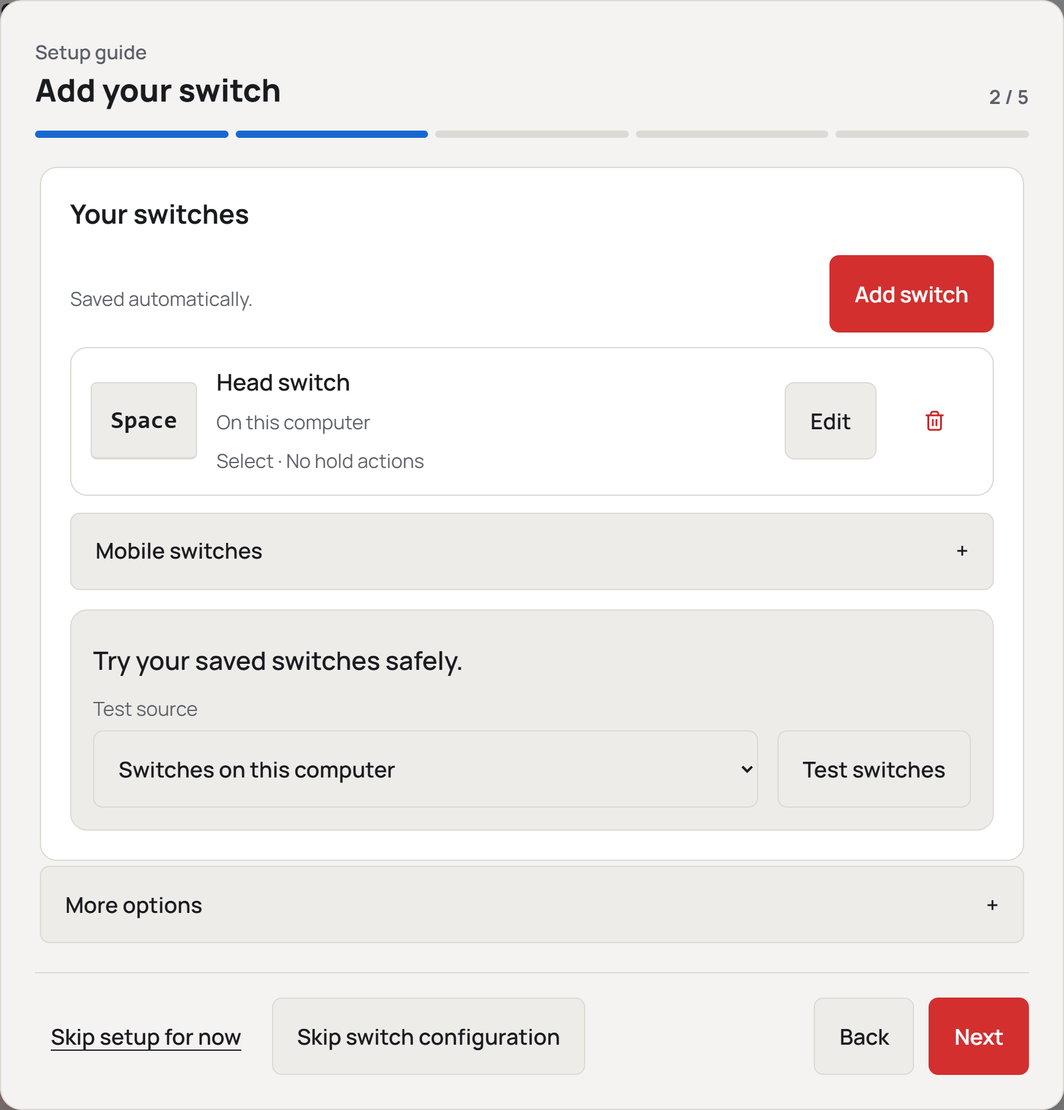
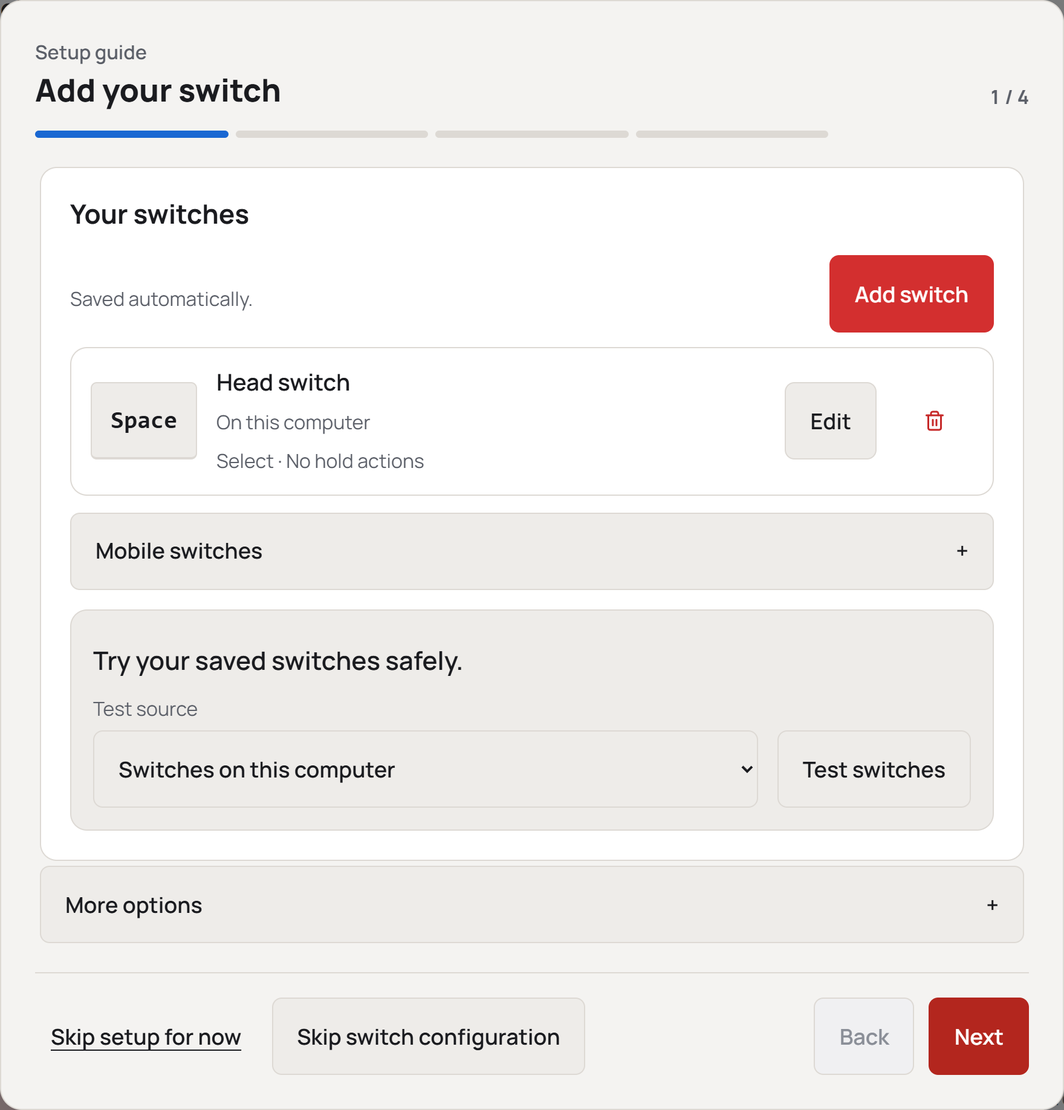
Show input access only when a Mac needs setup (#1345)
* Show input access setup only when a Mac needs permission

* Start Windows guide screenshots on the switch step

* Keep switch drafts mounted when input permission changes

---------

diff --git a/src/App.tsx b/src/App.tsx
@@ -1,5 +1,6 @@
 import { Button, Input, Select, StatusIcon } from "./ui/controls";
 import { PageIcon } from "./ui/PageIcon";
+import { needsInputAccess } from "./inputAccess";
 import { Demonstration, DemonstrationProvider } from "./help/Demonstration";
 import { useEffect, useId, useMemo, useRef, useState } from "react";
 import {
@@ -83,7 +84,7 @@ function HomeView({ state, switches, scanning, navigate, ctx, jump, recent, onDi
     <section className="home-health" aria-labelledby="home-health-heading">
     <h2 id="home-health-heading">Your setup</h2>
     <section className="status-list" aria-label="Switch control status">
-      <article><StatusIcon ok={state.accessibility === "granted"}><Accessibility size={19} /></StatusIcon><div><h3>Input access</h3><AccessibilityCopy state={state} /></div>{state.accessibility === "required" && <Button className="text-button" onClick={onAccessibility}>Open Accessibility Settings</Button>}</article>
+      {needsInputAccess(state) && <article><StatusIcon ok={false}><Accessibility size={19} /></StatusIcon><div><h3>Input access</h3><AccessibilityCopy state={state} /></div><Button className="text-button" onClick={onAccessibility}>Open Accessibility Settings</Button></article>}
       <article><StatusIcon ok={released ? undefined : hasSelect}><PageIcon page="switches" size={19} /></StatusIcon><div><h3>Saved switches</h3><p>{saved.length} saved. {released ? "Listening paused" : hasSelect ? "Select assigned" : "Select action needed"}</p></div>{saved.length > 0 && <Button className="text-button" onClick={() => onReleaseSwitchKeys(!released)}>{released ? "Resume listening" : "Pause listening"}</Button>}</article>
       <article><StatusIcon><PageIcon page="scanning" size={19} /></StatusIcon><div><h3>Scanning</h3><p>{selectOpensHome(scanning.config) ? "Select opens Home" : `Select starts ${lastModeName(scanning.config)}`}. {areaOptions(scanning.config, scanning.config.controlMode).automatic ? "Automatic" : "Manual"}</p></div><Button className="text-button" onClick={() => navigate("scanning")}>Change scanning</Button></article>
       <article><StatusIcon ok={mobileConnected || undefined}><PageIcon page="mobile" size={19} /></StatusIcon><div><h3>Mobile connection (optional)</h3><p>{mobileConnected ? state.connectedDeviceName ?? bluetoothLabels.connected : bluetoothLabels[state.bluetooth]}</p></div>{mobileConnected ? <Button className="secondary" onClick={onDisconnect}>Disconnect</Button> : <Button className="text-button" onClick={() => navigate("mobile")}>Connect mobile</Button>}</article>
@@ -346,14 +347,14 @@ function UpdateBanner({ update, openUpdates }: { update: UpdateState; openUpdate
 function SupportView({ state, switches, busy, perform, openSetup, openUpdates, ctx, jump }: { state: AppState; switches: SwitchController; busy: boolean; perform: (operation: () => Promise<AppState>) => void; openSetup: () => void; openUpdates: () => void; ctx: FindContext; jump: Jump }) {
   return <div className="view"><PageHead title="Help" blurb={<>Set up Switchify PC and fix common problems. The full guide is at <a href="https://pc.theswitchify.app" target="_blank" rel="noreferrer">pc.theswitchify.app</a>.</>} />
     <SectionStrip page="support" ctx={ctx} jump={jump} />
-    <section className="subview" data-section="setup" aria-labelledby="support-setup-heading"><header className="section-header" data-setting="setup-guide"><div><h2 id="support-setup-heading">Setup</h2><p>The three things a working setup needs.</p></div><Button className="primary setup-launch" onClick={openSetup}><Wrench size={16} />Open setup guide</Button></header><div className="task-list" aria-label="Setup status">
-      <article data-setting="input-access"><StatusIcon ok={state.accessibility === "granted"}><Accessibility size={19} /></StatusIcon><div><h3>Input access</h3><AccessibilityCopy state={state} detailed /><Demonstration kind="access" /></div>{state.accessibility === "required" && <Button className="secondary" disabled={busy} onClick={() => perform(() => api.checkAccessibility(true))}>Open Accessibility Settings</Button>}</article>
+    <section className="subview" data-section="setup" aria-labelledby="support-setup-heading"><header className="section-header" data-setting="setup-guide"><div><h2 id="support-setup-heading">Setup</h2><p>Set up your switches and optional mobile connection.</p></div><Button className="primary setup-launch" onClick={openSetup}><Wrench size={16} />Open setup guide</Button></header><div className="task-list" aria-label="Setup status">
+      {needsInputAccess(state) && <article data-setting="input-access"><StatusIcon ok={false}><Accessibility size={19} /></StatusIcon><div><h3>Input access</h3><AccessibilityCopy state={state} detailed /><Demonstration kind="access" /></div><Button className="secondary" disabled={busy} onClick={() => perform(() => api.checkAccessibility(true))}>Open Accessibility Settings</Button></article>}
       <article><StatusIcon><PageIcon page="switches" size={19} /></StatusIcon><div><h3>Local switches</h3><p>{switches.state?.settings.bindings.length ?? 0} configured. Open Switches to assign Select, then open Scanning to adjust movement.</p></div><Button className="secondary" onClick={() => jump({ page: "switches", section: "switches" })}>Open Switches</Button></article>
       <article><StatusIcon><Bluetooth size={19} /></StatusIcon><div><h3>Optional mobile connection</h3><p>{bluetoothLabels[state.bluetooth]}. Open Mobile for pairing and forwarding profiles.</p></div><Button className="secondary" onClick={() => jump({ page: "mobile", section: "pairing" })}>Open Mobile</Button></article>
     </div></section>
     <section className="subview" data-section="fix" aria-labelledby="support-fix-heading"><header className="section-header"><div><h2 id="support-fix-heading">Fix a problem</h2><p>Checks and tools for when something is not working.</p></div></header><div className="task-list" aria-label="Troubleshooting actions">
       <article data-setting="bluetooth"><StatusIcon><Bluetooth size={19} /></StatusIcon><div><h3>Bluetooth connection</h3><p>{bluetoothLabels[state.bluetooth]}</p></div><Button className="secondary" disabled={busy} onClick={() => perform(api.disconnectAll)}><Power size={16} />Disconnect</Button></article>
-      <article><StatusIcon ok={state.accessibility === "granted"}><Accessibility size={19} /></StatusIcon><div><h3>Input access</h3><AccessibilityCopy state={state} detailed /><Demonstration kind="access" /></div>{state.accessibility === "required" ? <Button className="secondary" disabled={busy} onClick={() => perform(() => api.checkAccessibility(true))}>Open Accessibility Settings</Button> : <Button className="secondary" disabled={busy} onClick={() => perform(() => api.checkAccessibility(false))}><RefreshCw size={16} />Check input access</Button>}</article>
+      {needsInputAccess(state) && <article><StatusIcon ok={false}><Accessibility size={19} /></StatusIcon><div><h3>Input access</h3><AccessibilityCopy state={state} detailed /><Demonstration kind="access" /></div><Button className="secondary" disabled={busy} onClick={() => perform(() => api.checkAccessibility(true))}>Open Accessibility Settings</Button></article>}
       <article data-setting="not-recognised"><StatusIcon><PageIcon page="switches" size={19} /></StatusIcon><div><h3>Switch not recognized</h3><p>{interfaceModeAdvice} {reservedKeyAdvice(state.capabilities.platform)}</p><Demonstration kind="interface" /></div><Button className="secondary" onClick={() => jump({ page: "switches", section: "practice", setting: "practice" })}>Test switches</Button></article>
       <article><StatusIcon><RefreshCw size={19} /></StatusIcon><div><h3>Application update</h3><p>Switchify PC {state.version}</p></div><Button className="secondary" onClick={openUpdates}>View updates</Button></article>
       <article data-setting="diagnostics"><StatusIcon><Download size={19} /></StatusIcon><div><h3>Diagnostics</h3><p>Export sanitized health, capability, and recent event data</p></div><Button className="secondary" disabled={busy} onClick={() => perform(api.exportDiagnostics)}><Download size={16} />Export</Button></article>
@@ -375,7 +376,16 @@ function SetupGuide({ state, switches, suspended, busy, error, skip, finish, acc
   switches: SwitchController;
   suspended: boolean;
 }) {
-  const [step, setStep] = useState(0);
+  const inputAccessRequired = needsInputAccess(state);
+  const [requestedStep, setStep] = useState(() => inputAccessRequired ? 0 : 1);
+  const steps = inputAccessRequired ? [0, 1, 2, 3, 4] : [1, 2, 3, 4];
+  // Permission can arrive while this guide is open. Move straight to switch
+  // setup without renumbering the remaining content or losing saved choices.
+  const step = requestedStep === 0 && !inputAccessRequired ? 1 : requestedStep;
+  const stepNumber = steps.indexOf(step) + 1;
+  useEffect(() => {
+    if (!inputAccessRequired && requestedStep === 0) setStep(1);
+  }, [inputAccessRequired, requestedStep]);
   const [startupChoice, setStartupChoice] = useState<boolean | null>(state.setup.completed ? state.settings.startWithSystem : null);
   const [diagnosticsChoice, setDiagnosticsChoice] = useState<boolean | null>(state.setup.completed && state.telemetry.consent !== "undecided" ? state.telemetry.consent === "enabled" : null);
   const dialogRef = useRef<HTMLElement>(null);
@@ -416,12 +426,12 @@ function SetupGuide({ state, switches, suspended, busy, error, skip, finish, acc
   };
 
   return <div className="modal-backdrop setup-backdrop" hidden={suspended} inert={suspended}><section ref={dialogRef} className="setup-dialog" data-switch-step={step === 1} role={capturing ? undefined : "dialog"} aria-modal={capturing ? undefined : true} aria-labelledby="setup-title" tabIndex={-1} onKeyDown={trapFocus}>
-    <header><div><span>Setup guide</span><h2 id="setup-title">{titles[step]}</h2></div><strong aria-label={`Step ${step + 1} of 5`}>{step + 1} / 5</strong></header>
-    <div className="setup-progress" aria-hidden="true">{titles.map((title, index) => <span key={title} data-active={index <= step} />)}</div>
+    <header><div><span>Setup guide</span><h2 id="setup-title">{titles[step]}</h2></div><strong aria-label={`Step ${stepNumber} of ${steps.length}`}>{stepNumber} / {steps.length}</strong></header>
+    <div className="setup-progress" aria-hidden="true">{steps.map(index => <span key={titles[index]} data-active={index <= step} />)}</div>
     {error && <div className="dialog-error" role="alert">{error}</div>}
     <div className="setup-content">
       {step === 0 && <div className="setup-statuses">
-        <article><StatusIcon ok={state.accessibility === "granted"}><Accessibility size={19} /></StatusIcon><div><h3>Input access</h3><AccessibilityCopy state={state} detailed /><Demonstration kind="access" /></div>{state.accessibility === "required" && <Button className="secondary" disabled={busy} onClick={() => void accessibility()}>Open Accessibility Settings</Button>}</article>
+        {needsInputAccess(state) && <article><StatusIcon ok={false}><Accessibility size={19} /></StatusIcon><div><h3>Input access</h3><AccessibilityCopy state={state} detailed /><Demonstration kind="access" /></div><Button className="secondary" disabled={busy} onClick={() => void accessibility()}>Open Accessibility Settings</Button></article>}
       </div>}
       {step === 1 && <SwitchesSection mobileConnected={state.bluetooth === "connected"} platform={state.capabilities.platform} controller={switches} onDraftChange={setSwitchDraft} suspended={suspended} />}
       {step === 2 && <div><h3>Use your switches</h3><p>Press and release Select to open Home. Choose Point to pick a place on the screen and an action, Mouse to move a visible pointer ring with mouse controls, or Keyboard to type. Apps and windows brings another app forward, so you never need to focus an app first. After an action, Select carries on in the same mode.</p><p>Automatic scanning moves the highlight for you. Use Auto scan rate for grid and panel timing, and Line speed for point scanning lines. Holding a switch pauses the scan highlight; release runs the action shown. Choose whether repeating Mouse movement and scrolling stop on switch press or release under Scanning, Mouse pointer.</p><p>Escape disables switch control. Assign Stop scanning or Pause / resume in Switches. Holding any switch for {switches.state ? switches.state.escapeHoldMs / 1000 : 4}s disables switch control.</p><p>Open Scanning after setup to adjust movement and switch between Point and Mouse. Mobile connection is optional.</p><Demonstration kind="grid" /><Demonstration kind="line" /><Demonstration kind="hold" /></div>}
@@ -429,7 +439,7 @@ function SetupGuide({ state, switches, suspended, busy, error, skip, finish, acc
       {step === 4 && <div><h3>Choose whether to share diagnostics</h3><p>Optional anonymous app health and sanitized errors help improve Switchify. Typed text, commands, pairing secrets, device names, and full paths are never included.</p><div className="setup-choices" role="group" aria-label="Anonymous diagnostics choice"><Button className="secondary" disabled={!state.telemetry.available} aria-pressed={diagnosticsChoice === true} onClick={() => setDiagnosticsChoice(true)}>Share diagnostics</Button><Button className="secondary" aria-pressed={diagnosticsChoice === false} onClick={() => setDiagnosticsChoice(false)}>Don’t share</Button></div><a className="setup-privacy" href="https://www.theswitchify.app/privacy" target="_blank" rel="noreferrer">Privacy policy</a></div>}
     </div>
     <p id={guidanceId} className="setup-navigation-guidance" role="status">{navigationGuidance}</p>
-    <footer><Button className="text-button" disabled={busy || switchBusy} onClick={() => void skip()}>Skip setup for now</Button>{step === 1 && <Button className="secondary" disabled={busy || switchBusy} onClick={() => setStep(2)}>Skip switch configuration</Button>}<span /><Button className="secondary" disabled={busy || switchBusy || step === 0} onClick={() => setStep((current) => current - 1)}>Back</Button><Button className="primary" aria-describedby={navigationGuidance ? guidanceId : undefined} disabled={busy || switchBusy || !canContinue} onClick={() => step === 4 ? void finish(startupChoice!, diagnosticsChoice!) : setStep((current) => current + 1)}>{step === 4 ? "Finish" : "Next"}</Button></footer>
+    <footer><Button className="text-button" disabled={busy || switchBusy} onClick={() => void skip()}>Skip setup for now</Button>{step === 1 && <Button className="secondary" disabled={busy || switchBusy} onClick={() => setStep(2)}>Skip switch configuration</Button>}<span /><Button className="secondary" disabled={busy || switchBusy || stepNumber === 1} onClick={() => setStep(step - 1)}>Back</Button><Button className="primary" aria-describedby={navigationGuidance ? guidanceId : undefined} disabled={busy || switchBusy || !canContinue} onClick={() => step === 4 ? void finish(startupChoice!, diagnosticsChoice!) : setStep(step + 1)}>{step === 4 ? "Finish" : "Next"}</Button></footer>
   </section></div>;
 }
 

diff --git a/src/App.test.tsx b/src/App.test.tsx
@@ -13,6 +13,7 @@ const defaultBrowserSettings = structuredClone(browserState.settings);
 describe("Switchify PC shell", () => {
   beforeEach(() => {
     browserState.accessibility = "required";
+    browserState.capabilities.platform = "windows";
     browserState.settings = structuredClone(defaultBrowserSettings);
     browserState.bluetooth = "initializing";
     browserState.pendingPairings = [];
@@ -108,6 +109,7 @@ describe("Switchify PC shell", () => {
   });
 
   it("blocks setup navigation while a switch draft or save needs attention", async () => {
+    browserState.capabilities.platform = "macos";
     browserState.setup.autoOpenEligible = true;
     const switches = localSwitches();
     vi.spyOn(switchHooks, "useSwitches").mockReturnValue(switches);
@@ -132,6 +134,7 @@ describe("Switchify PC shell", () => {
     ["capture", "Finish capturing a switch or cancel capture before continuing."],
     ["save", "Wait for your switch changes to finish saving before continuing."],
   ])("explains and preserves navigation guards during %s", async (operation, message) => {
+    browserState.capabilities.platform = "macos";
     browserState.setup.autoOpenEligible = true;
     const switches = localSwitches();
     vi.spyOn(switchHooks, "useSwitches").mockReturnValue(switches);
@@ -152,6 +155,7 @@ describe("Switchify PC shell", () => {
   });
 
   it("suspends setup for pairing and returns to the same step", async () => {
+    browserState.capabilities.platform = "macos";
     browserState.setup.autoOpenEligible = true;
     const switches = localSwitches();
     vi.spyOn(switchHooks, "useSwitches").mockReturnValue(switches);
@@ -171,6 +175,7 @@ describe("Switchify PC shell", () => {
   });
 
   it("shows pairing failures inside the active pairing dialog", async () => {
+    browserState.capabilities.platform = "macos";
     browserState.setup.autoOpenEligible = true;
     browserState.pendingPairings = [{ requestId: "one", deviceId: "phone", deviceName: "Phone", verificationCode: "123456", expiresAt: 100 }];
     vi.spyOn(api, "approvePairing").mockRejectedValue(new Error("Pairing failed. Try again."));
@@ -403,7 +408,55 @@ describe("Switchify PC shell", () => {
     } finally { delete browserState.licence; }
   });
 
+  it.each([
+    ["macos", "required", true],
+    ["macos", "granted", false],
+    ["macos", "unavailable", false],
+    ["windows", "required", false],
+    ["windows", "granted", false],
+  ] as const)("shows input setup only where actionable: %s %s", async (platform, permission, visible) => {
+    browserState.capabilities.platform = platform;
+    browserState.accessibility = permission;
+    render(<App />);
+    await screen.findByRole("heading", { name: "Switchify PC" });
+    expect(screen.queryByRole("heading", { name: "Input access" }) !== null).toBe(visible);
+    fireEvent.click(screen.getByRole("button", { name: "Help" }));
+    expect(screen.queryAllByRole("heading", { name: "Input access" }).length).toBe(visible ? 2 : 0);
+    fireEvent.click(screen.getByRole("button", { name: "Open setup guide" }));
+    await screen.findByRole("dialog", { name: visible ? "Input access" : "Add your switch" });
+    expect(screen.getByLabelText(`Step 1 of ${visible ? 5 : 4}`)).toBeInTheDocument();
+    expect(screen.getByRole("button", { name: "Back" })).toBeDisabled();
+  });
+
+  it("continues to switch setup when a Mac grants permission while the guide is open", async () => {
+    browserState.capabilities.platform = "macos";
+    browserState.setup.autoOpenEligible = true;
+    vi.spyOn(switchHooks, "useSwitches").mockReturnValue(localSwitches());
+    let receive: ((state: typeof browserState) => void) | undefined;
+    vi.spyOn(api, "onState").mockImplementation(async handler => { receive = handler; return () => undefined; });
+    render(<App />);
+    await screen.findByRole("dialog", { name: "Input access" });
+    act(() => receive?.({ ...structuredClone(browserState), accessibility: "granted" }));
+    await waitFor(() => expect(screen.getByRole("dialog", { name: "Add your switch" })).toHaveFocus());
+    expect(screen.getByLabelText("Step 1 of 4")).toBeInTheDocument();
+    expect(screen.getByRole("button", { name: "Back" })).toBeDisabled();
+    fireEvent.click(screen.getByRole("button", { name: "Add switch" }));
+    await waitFor(() => expect(screen.getByRole("button", { name: "Cancel new switch" })).toBeInTheDocument());
+    act(() => receive?.({ ...structuredClone(browserState), accessibility: "required" }));
+    expect(screen.getByRole("dialog", { name: "Add your switch" })).toBeInTheDocument();
+    expect(screen.getByRole("button", { name: "Cancel new switch" })).toBeInTheDocument();
+    expect(screen.getByRole("button", { name: "Next" })).toBeDisabled();
+    fireEvent.click(screen.getByRole("button", { name: "Cancel new switch" }));
+    act(() => receive?.({ ...structuredClone(browserState), accessibility: "granted" }));
+    await waitFor(() => expect(screen.getByRole("button", { name: "Next" })).toBeEnabled());
+    fireEvent.click(screen.getByRole("button", { name: "Next" }));
+    expect(screen.getByRole("dialog", { name: "Scanning basics" })).toBeInTheDocument();
+    fireEvent.click(screen.getByRole("button", { name: "Back" }));
+    expect(screen.getByRole("dialog", { name: "Add your switch" })).toBeInTheDocument();
+  });
+
   it("renders the connection and permission state", async () => {
+    browserState.capabilities.platform = "macos";
     render(<App />);
     expect(await screen.findByRole("heading", { name: "Switchify PC" })).toBeInTheDocument();
     expect(screen.getByText("Input access")).toBeInTheDocument();
@@ -411,6 +464,7 @@ describe("Switchify PC shell", () => {
   });
 
   it("opens setup once for a fresh unpaired user and persists dismissal", async () => {
+    browserState.capabilities.platform = "macos";
     browserState.setup = { shown: false, completed: false, autoOpenEligible: true };
     const markShown = vi.spyOn(api, "markSetupShown");
     render(<App />);
@@ -515,6 +569,7 @@ describe("Switchify PC shell", () => {
 
   it("clears a cancelled pairing request from the setup guide runtime event", async () => {
     let stateHandler: ((state: typeof browserState) => void) | undefined;
+    browserState.capabilities.platform = "macos";
     browserState.setup = { shown: false, completed: false, autoOpenEligible: true };
     browserState.pendingPairings = [
       { requestId: "pair-cancelled", deviceId: "android-1", deviceName: "Galaxy", verificationCode: "063781", expiresAt: 1 },
@@ -1245,7 +1300,8 @@ describe("Switchify PC shell", () => {
     browserState.capabilities.platform = originalPlatform;
   });
 
-  it("updates accessibility to Ready from the runtime event", async () => {
+  it("hides input access after permission arrives from the runtime event", async () => {
+    browserState.capabilities.platform = "macos";
     let stateHandler: ((state: typeof browserState) => void) | undefined;
     const listener = vi.spyOn(api, "onState").mockImplementation(async (handler) => {
       stateHandler = handler;
@@ -1254,7 +1310,7 @@ describe("Switchify PC shell", () => {
     render(<App />);
     await screen.findByRole("heading", { name: "Switchify PC" });
     stateHandler?.({ ...structuredClone(browserState), accessibility: "granted" });
-    expect(await screen.findByText("Ready")).toBeInTheDocument();
+    await waitFor(() => expect(screen.queryByRole("heading", { name: "Input access" })).not.toBeInTheDocument());
     expect(screen.queryByRole("button", { name: "Open Accessibility Settings" })).not.toBeInTheDocument();
     listener.mockRestore();
   });

diff --git a/src/find/index.ts b/src/find/index.ts
@@ -9,6 +9,7 @@ import { actions } from "../scanning/useSwitches";
 import { lastModeName, selectOpensHome, type PointScanConfig, type PointScanState } from "../scanning/useScanning";
 import { areaOptions, defaultScanPreferences, itemScanning, itemScanningLabels, sharedOptions, type ScanArea } from "../scanning/preferences";
 import { speedLevelLabel } from "../settings/pointerSpeedScale";
+import { needsInputAccess } from "../inputAccess";
 
 /** The pages of the app. Mouse pointer settings live on Scanning and the account on Settings. */
 export type Page = "home" | "switches" | "scanning" | "panels" | "mobile" | "settings" | "support";
@@ -168,6 +169,7 @@ const catalogue = [
     value: (c) => c.settings ? (c.settings.autoApproveAccountDevices ? "On" : "Off") : null, related: ["account", "pairing"] },
   // Help
   { id: "input-access", label: "Input access", words: ["accessibility", "permission", "allow", "not working", "cannot control", "macos", "system settings"], page: "support", section: "setup", status: true,
+    when: (c) => needsInputAccess(c.state),
     value: (c) => ({ granted: "Ready", required: "Permission required", unavailable: "Unavailable on this system" })[c.state.accessibility], related: ["switch-list", "not-recognised"] },
   { id: "not-recognised", label: "Switch not recognized", words: ["not working", "no response", "interface", "keyboard mode", "reserved key", "switch does nothing", "troubleshooting"], page: "support", section: "fix", status: true,
     value: () => "Use a switch interface in keyboard mode", related: ["switch-list", "practice", "input-access"] },

diff --git a/src/find/index.test.ts b/src/find/index.test.ts
@@ -14,6 +14,16 @@ function context(overrides: Partial<FindContext> = {}): FindContext {
 }
 
 describe("the settings index", () => {
+  it("offers input access only for a Mac needing permission", () => {
+    for (const platform of ["macos", "windows", "linux"] as const) {
+      for (const accessibility of ["required", "granted", "unavailable"] as const) {
+        const ctx = context();
+        ctx.state.capabilities.platform = platform;
+        ctx.state.accessibility = accessibility;
+        expect(available(entry("input-access"), ctx)).toBe(platform === "macos" && accessibility === "required");
+      }
+    }
+  });
   it("gives every entry a page, a section on that page and a value", () => {
     const ctx = context();
     for (const e of index) {

diff --git a/src/inputAccess.ts b/src/inputAccess.ts
@@ -1,0 +1,6 @@
+import type { AppState } from "./types";
+
+/** Accessibility setup is actionable only on a Mac without permission. */
+export function needsInputAccess(state: AppState): boolean {
+  return state.capabilities.platform === "macos" && state.accessibility === "required";
+}

diff --git a/site/src/content/docs/index.md b/site/src/content/docs/index.md
@@ -23,7 +23,7 @@ The pages are in a sidebar on the left, with an icon beside each name. **Switche
 
 Press Ctrl+K on Windows or Command+K on Mac to focus **Find a setting**. You can also press `/` when you are not typing in a field. Settings show their names beside an **On** or **Off** control, and saved switches appear as rows with their edit and remove buttons alongside.
 
-Home shows whether switch control is ready, followed by common tasks such as changing the scan rate or adding a switch. **Your setup** below them shows input access, saved switches, scanning and the optional mobile connection. The same switch, scanning, panel and phone symbols appear beside related tasks, status information and device lists throughout the settings window.
+Home shows whether switch control is ready, followed by common tasks such as changing the scan rate or adding a switch. **Your setup** below them shows saved switches, scanning and the optional mobile connection. Input access appears on Home, in Help and in search only when a Mac still needs Accessibility permission. The same switch, scanning, panel and phone symbols appear beside related tasks, status information and device lists throughout the settings window.
 
 Type into **Find a setting** to find a control by name or meaning. While meaning-based search starts, the window shows **Finding settings…** if there are no keyword matches yet. Choose a result to open its setting.
 

diff --git a/site/src/content/docs/get-started/install.md b/site/src/content/docs/get-started/install.md
@@ -35,9 +35,9 @@ See [licences, activation and offline access](/licence/) for the full details.
 
 ## The setup guide
 
-The first time Switchify PC opens, a five-step guide walks you through:
+The first time Switchify PC opens, a guide walks you through:
 
-1. **Input access.** On a Mac, Switchify PC needs Accessibility permission to control the pointer and keyboard. Choose *Open Accessibility Settings*, turn on Switchify PC under Privacy & Security, then come back to the app. It checks again by itself when its window regains focus. On Windows this step shows *Ready*.
+1. **Input access.** On a Mac, Switchify PC needs Accessibility permission to control the pointer and keyboard. Choose *Open Accessibility Settings*, turn on Switchify PC under Privacy & Security, then come back to the app. It checks again by itself when its window regains focus. This step appears only on a Mac that still needs permission. After permission is granted, the guide continues to Add your switch.
 
    ![The Input access step of the setup guide on a Mac, with an Open Accessibility Settings button and a Show me how demonstration.](../../../assets/screenshots/setup-input-access-macos.png)
 
